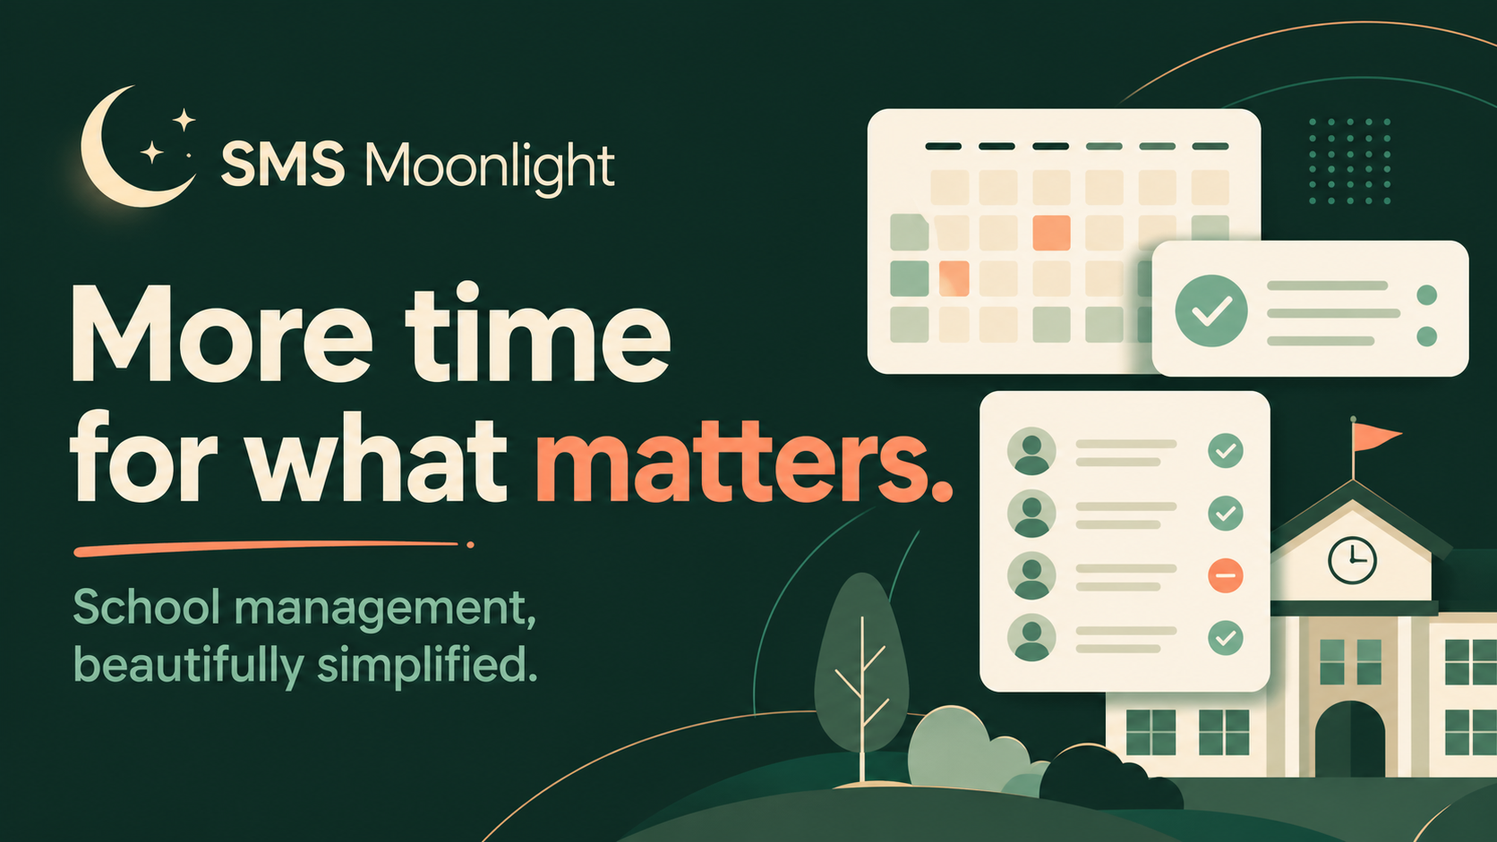
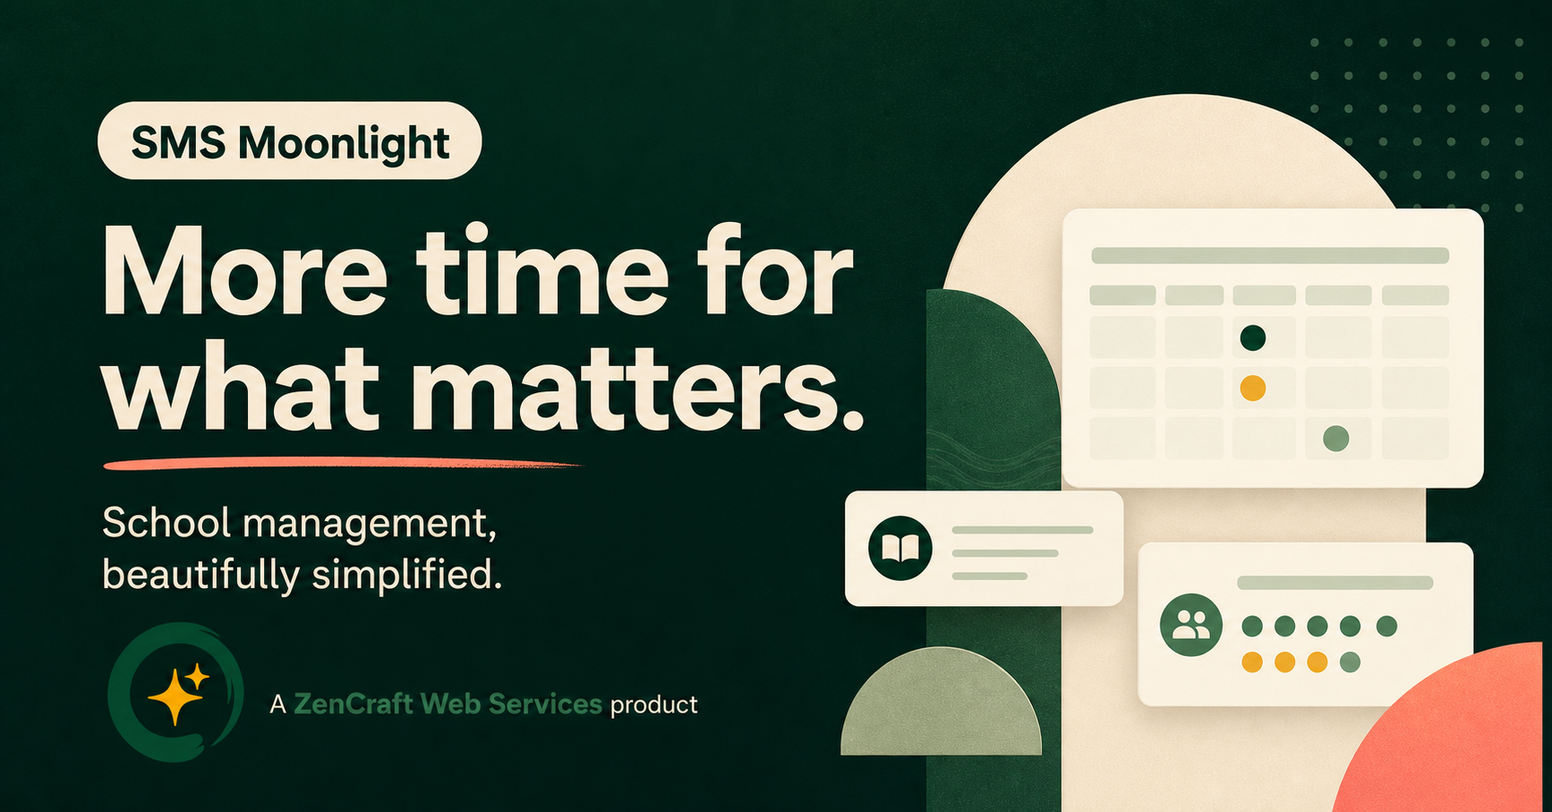
Integrate ZenCraft branding and Hostinger export

diff --git a/app/globals.css b/app/globals.css
@@ -1,6 +1,6 @@
 @import 'tailwindcss';
 
-:root{--ink:#102c2a;--green:#194f48;--deep:#0d3431;--cream:#f7f4ec;--paper:#fffdf8;--orange:#f28b55;--line:#dde1da;--muted:#667570}*{box-sizing:border-box}html{scroll-behavior:smooth}body{margin:0;background:var(--paper);color:var(--ink);font-family:var(--body),Arial,sans-serif}a{text-decoration:none;color:inherit}.shell{width:min(1180px,calc(100% - 48px));margin:auto}.nav{height:82px;display:flex;align-items:center;justify-content:space-between;position:relative;z-index:5}.brand{display:flex;align-items:center;gap:9px;font-family:var(--display);font-size:18px}.brand b{font-weight:800;margin-left:-5px}.moon{width:34px;height:34px;border-radius:50%;display:inline-block;background:var(--ink);box-shadow:inset -8px -3px 0 #f4be72;position:relative}.moon:before{content:"";position:absolute;width:17px;height:17px;border-radius:50%;background:var(--paper);top:3px;left:4px}.navlinks{display:flex;gap:36px;font-size:13px;color:#4f625e}.navlinks a:hover{color:var(--orange)}.btn{min-height:50px;padding:0 21px;border-radius:8px;display:inline-flex;align-items:center;justify-content:center;gap:18px;font-weight:800;font-size:13px;border:1px solid transparent;transition:.2s}.btn:hover{transform:translateY(-2px)}.btn.small{min-height:41px;padding:0 17px}.dark{background:var(--ink);color:white}.orange{background:var(--orange);color:#243b37;box-shadow:0 10px 25px #f28b5535}.white{background:white}.outline{border-color:#ffffff3d;color:white}.ghost{border-color:#ffffff55;color:white}.hero{min-height:670px;display:grid;grid-template-columns:.85fr 1.25fr;gap:30px;align-items:center;padding:25px 0 72px}.pill,.sectionHead>span,.estimator>div>span,.cta small{font-size:10px;letter-spacing:1.7px;font-weight:900;color:var(--green)}h1,h2,h3{font-family:var(--display);margin:0}h1{font-size:clamp(52px,5.4vw,77px);line-height:.97;letter-spacing:-4.5px;margin:25px 0 23px}h1 em,h2 em{font-style:normal;color:var(--orange)}.heroCopy>p{font-size:16px;line-height:1.75;color:var(--muted);max-width:485px}.actions{display:flex;align-items:center;gap:28px;margin-top:31px}.watch{display:flex;align-items:center;gap:9px;font-size:13px;font-weight:800}.watch i{font-style:normal;width:31px;height:31px;border:1px solid #cbd3ce;border-radius:50%;display:grid;place-items:center;color:var(--orange);font-size:8px}.proof{display:flex;align-items:center;gap:13px;margin-top:43px}.proof>div{display:flex}.proof>div span{width:32px;height:32px;border-radius:50%;display:grid;place-items:center;border:2px solid var(--paper);margin-left:-7px;background:#bcded2;font-size:8px;font-weight:900}.proof>div span:first-child{margin:0;background:#f4c5a9}.proof>div span:last-child{background:#bed7ea}.proof p{font-size:10px;line-height:1.5;color:var(--muted)}.proof b{color:var(--ink)}
+:root{--ink:#102c2a;--green:#194f48;--deep:#0d3431;--cream:#f7f4ec;--paper:#fffdf8;--orange:#f28b55;--gold:#fdbb21;--line:#dde1da;--muted:#667570}*{box-sizing:border-box}html{scroll-behavior:smooth}body{margin:0;background:var(--paper);color:var(--ink);font-family:var(--body),Arial,sans-serif}a{text-decoration:none;color:inherit}.shell{width:min(1180px,calc(100% - 48px));margin:auto}.nav{height:82px;display:flex;align-items:center;justify-content:space-between;position:relative;z-index:5}.brand{display:flex;align-items:center;gap:9px;font-family:var(--display);font-size:18px}.brand b{font-weight:800;margin-left:-5px}.productBrand{gap:11px}.brandSymbol{width:37px;height:37px;display:block;overflow:hidden;position:relative;flex:0 0 37px}.brandSymbol img{position:absolute;width:124px;height:62px;max-width:none;left:-1px;top:-12px;object-fit:contain}.productName{display:grid;grid-template-columns:auto auto;column-gap:5px;align-items:end;line-height:1}.productName b{margin:0}.productName small{grid-column:1/-1;font:800 7px/1 var(--body);letter-spacing:1.35px;text-transform:uppercase;color:#56706a;margin-top:5px}.moon{width:34px;height:34px;border-radius:50%;display:inline-block;background:var(--ink);box-shadow:inset -8px -3px 0 #f4be72;position:relative}.moon:before{content:"";position:absolute;width:17px;height:17px;border-radius:50%;background:var(--paper);top:3px;left:4px}.navlinks{display:flex;gap:36px;font-size:13px;color:#4f625e}.navlinks a:hover{color:var(--orange)}.btn{min-height:50px;padding:0 21px;border-radius:8px;display:inline-flex;align-items:center;justify-content:center;gap:18px;font-weight:800;font-size:13px;border:1px solid transparent;transition:.2s}.btn:hover{transform:translateY(-2px)}.btn.small{min-height:41px;padding:0 17px}.dark{background:var(--ink);color:white}.orange{background:var(--orange);color:#243b37;box-shadow:0 10px 25px #f28b5535}.white{background:white}.outline{border-color:#ffffff3d;color:white}.ghost{border-color:#ffffff55;color:white}.hero{min-height:670px;display:grid;grid-template-columns:.85fr 1.25fr;gap:30px;align-items:center;padding:25px 0 72px}.pill,.sectionHead>span,.estimator>div>span,.cta small{font-size:10px;letter-spacing:1.7px;font-weight:900;color:var(--green)}h1,h2,h3{font-family:var(--display);margin:0}h1{font-size:clamp(52px,5.4vw,77px);line-height:.97;letter-spacing:-4.5px;margin:25px 0 23px}h1 em,h2 em{font-style:normal;color:var(--orange)}.heroCopy>p{font-size:16px;line-height:1.75;color:var(--muted);max-width:485px}.actions{display:flex;align-items:center;gap:28px;margin-top:31px}.watch{display:flex;align-items:center;gap:9px;font-size:13px;font-weight:800}.watch i{font-style:normal;width:31px;height:31px;border:1px solid #cbd3ce;border-radius:50%;display:grid;place-items:center;color:var(--orange);font-size:8px}.proof{display:flex;align-items:center;gap:13px;margin-top:43px}.proof>div{display:flex}.proof>div span{width:32px;height:32px;border-radius:50%;display:grid;place-items:center;border:2px solid var(--paper);margin-left:-7px;background:#bcded2;font-size:8px;font-weight:900}.proof>div span:first-child{margin:0;background:#f4c5a9}.proof>div span:last-child{background:#bed7ea}.proof p{font-size:10px;line-height:1.5;color:var(--muted)}.proof b{color:var(--ink)}
 .preview{height:570px;position:relative;display:flex;align-items:center}.preview:before{content:"";position:absolute;width:575px;height:575px;border-radius:50%;background:#e2eee7;right:-75px}.ring{position:absolute;border:1px solid #194f4822;border-radius:50%}.ring.one{width:495px;height:495px;right:-28px}.ring.two{width:370px;height:370px;right:35px}.app{width:700px;background:white;border:1px solid #dce4df;border-radius:14px;overflow:hidden;box-shadow:0 35px 70px #0d343133;position:relative;z-index:1;transform:perspective(1200px) rotateY(-4deg)}.app header{height:50px;display:flex;align-items:center;border-bottom:1px solid #edf0ed;padding:0 15px;gap:20px}.brand.mini{font-size:9px;width:115px}.brand.mini .moon{width:20px;height:20px;box-shadow:inset -5px -2px 0 #f4be72}.brand.mini .moon:before{width:10px;height:10px;top:2px;left:2px}.search{flex:1;background:#f5f6f4;padding:8px 12px;border-radius:6px;font-size:7px;color:#99a39f}.user{width:25px;height:25px;display:grid;place-items:center;border-radius:50%;background:#ffdfca;font-size:7px;font-weight:900}.appBody{display:grid;grid-template-columns:125px 1fr;min-height:375px}.appBody aside{border-right:1px solid #edf0ed;padding:14px 10px;display:flex;flex-direction:column;gap:4px;position:relative}.appBody aside>b,.appBody aside>span{padding:9px;border-radius:5px;font-size:7px;color:#7e8b87}.appBody aside>b{background:#dff0e8;color:var(--green)}.appBody aside>div{position:absolute;bottom:12px;left:10px;right:10px;background:#eff6f1;border-radius:7px;padding:9px;display:flex;flex-direction:column;font-size:7px}.appBody aside small{font-size:6px;color:#84918d;margin:2px 0 7px}.appBody aside button,.hello button{border:0;background:var(--green);color:white;border-radius:4px;padding:6px;font-size:6px}.dash{padding:21px;background:#fbfcfa}.hello{display:flex;justify-content:space-between;align-items:end}.hello small{font-size:6px;color:#98a29f;letter-spacing:.6px}.hello h3{font-size:18px;margin:4px 0}.hello p{font-size:7px;color:#85918d;margin:0}.hello button{background:var(--orange);color:var(--ink);font-weight:800;padding:8px 10px}.stats{display:grid;grid-template-columns:repeat(3,1fr);gap:8px;margin:18px 0 11px}.stats>div{background:white;border:1px solid #e8ede9;border-radius:8px;padding:10px;display:flex;align-items:center;gap:8px}.stats i{width:28px;height:28px;border-radius:7px;display:grid;place-items:center;font-style:normal}.mint{background:#dff1e8;color:#26725f}.peach{background:#ffeadf;color:#cd7041}.blue{background:#e1edf6;color:#50799c}.stats span{display:flex;flex-direction:column}.stats small{font-size:6px;color:#8b9793}.stats strong{font:800 15px var(--display)}.stats em{font-size:5px;color:#4e947d;font-style:normal}.lower{display:grid;grid-template-columns:1.2fr 1fr;gap:9px}.chart,.activity{height:155px;background:white;border:1px solid #e8ede9;border-radius:8px;padding:12px;font-size:7px}.bars{height:98px;display:flex;align-items:end;gap:13px;padding:12px 13px 0;border-bottom:1px solid #edf0ed;background:repeating-linear-gradient(transparent 0,transparent 23px,#f0f2ef 24px)}.bars i{flex:1;background:#b9ded1;border-radius:3px 3px 0 0}.bars i:nth-child(4){background:var(--orange)}.chart>small{display:flex;justify-content:space-around;color:#98a29f;font-size:5px;padding-top:6px}.activity>p{display:flex;align-items:center;gap:8px;margin:11px 0}.activity p>i{width:21px;height:21px;border-radius:50%;background:#e0f0e8;display:grid;place-items:center;font-style:normal}.activity p>span{display:flex;flex-direction:column}.activity p small{font-size:5px;color:#939d9a}.float{position:absolute;z-index:2;background:white;border:1px solid #e1e8e3;box-shadow:0 15px 32px #0d343128;border-radius:9px;padding:10px 13px;display:flex;align-items:center;gap:8px;font-size:8px}.float>i{width:28px;height:28px;border-radius:50%;background:#dff0e7;color:#377b66;display:grid;place-items:center;font-style:normal;font-weight:900}.float span{display:flex;flex-direction:column}.float small{font-size:6px;color:#87928f}.float.setup{left:-22px;bottom:35px}.float.attend{right:-2px;top:62px}.float.attend>i{background:#ffeadf;color:#cb6c3d}
 .trust{background:var(--green);color:white}.trust>.shell{min-height:105px;display:flex;align-items:center;justify-content:space-between}.trust p{font:400 14px/1.4 var(--display);color:#b7d3ca}.trust p b{color:white}.trust>div>div{display:flex;gap:37px;font-size:11px}.trust>div>div span{white-space:nowrap}.section{padding:110px 0}.sectionHead h2{font-size:clamp(39px,4.2vw,60px);line-height:1.05;letter-spacing:-3px;margin-top:15px}.sectionHead p{color:var(--muted);font-size:14px;line-height:1.75}.split{display:grid;grid-template-columns:1.2fr .65fr;gap:80px;align-items:end;margin-bottom:55px}.benefits{display:grid;grid-template-columns:repeat(3,1fr);gap:21px}.benefits article{border:1px solid var(--line);border-radius:12px;background:#fffefa;padding:23px}.benefits article>small{color:#8b9692;font-size:10px}.benefits h3{font-size:18px;margin-bottom:10px}.benefits p{color:var(--muted);font-size:12px;line-height:1.7}.art{height:185px;position:relative;overflow:hidden}.art:before{content:"";position:absolute;width:150px;height:150px;border-radius:50%;background:#e2f0e9;left:50%;top:18px;transform:translateX(-50%)}.art i,.art b,.art span{position:absolute;display:block}.a01 i{width:125px;height:80px;background:white;border-radius:8px;box-shadow:0 12px 25px #0d343120;left:25%;top:58px;transform:rotate(-5deg)}.a01 b{width:50px;height:50px;background:var(--orange);border-radius:50%;right:20%;top:35px}.a01 span{width:23px;height:23px;background:var(--green);border-radius:50%;left:20%;bottom:30px}.a02 i{width:165px;height:105px;border:8px solid #345e59;border-bottom-width:13px;background:white;border-radius:7px;left:50%;top:40px;transform:translateX(-50%);box-shadow:0 13px 25px #0d343125}.a02 i:before{content:"✓";position:absolute;width:38px;height:38px;border-radius:50%;background:#d8eee5;color:var(--green);display:grid;place-items:center;left:55px;top:22px}.a03 i{width:135px;height:74px;background:white;border-radius:8px;box-shadow:0 13px 28px #0d343122;left:50%;top:58px;transform:translateX(-50%)}.a03 i:before{content:"₱";position:absolute;width:38px;height:38px;border-radius:50%;background:var(--orange);display:grid;place-items:center;left:14px;top:18px;font-weight:900}.a03 b{width:25px;height:25px;border-radius:50%;background:var(--green);left:20%;top:42px}.a03 span{width:31px;height:31px;border-radius:50%;background:#f2b28f;right:21%;bottom:30px}
 .pricing{background:var(--deep);color:white;padding:110px 0}.center{text-align:center;max-width:720px;margin:0 auto 52px}.center>span,.pricing .estimator>div>span{color:#8fc2b4}.center p{max-width:580px;margin:17px auto 0;color:#aabcb7}.plans{display:grid;grid-template-columns:repeat(4,1fr);gap:13px}.plans article{border:1px solid #ffffff25;border-radius:12px;padding:26px 22px 22px;display:flex;flex-direction:column;min-height:400px;position:relative}.plans article.featured{background:#fffefa;color:var(--ink);border-color:white;transform:translateY(-9px);box-shadow:0 20px 45px #0004}.popular{position:absolute;top:-11px;left:50%;transform:translateX(-50%);background:var(--orange);color:var(--ink);font-size:8px;letter-spacing:1px;font-weight:900;padding:6px 11px;border-radius:20px;white-space:nowrap}.plans article>h3{font-size:18px}.plans article>p{color:#9cafaa;font-size:10px;min-height:34px}.plans article>strong{font:800 33px var(--display);letter-spacing:-1.4px}.plans article>small{font-size:9px;color:#8da09b}.plans hr{border:0;border-top:1px solid #ffffff20;width:100%;margin:21px 0}.plans .featured hr{border-color:#dfe3dd}.plans ul{list-style:none;padding:0;margin:0 0 24px;flex:1}.plans li{font-size:10px;color:#bfd0cb;margin-bottom:12px;display:flex;gap:8px}.plans .featured li{color:#566a65}.plans li i{font-style:normal;color:var(--orange)}.enterprise{border:1px solid #ffffff25;border-radius:12px;margin-top:19px;padding:25px 29px;display:flex;align-items:center;justify-content:space-between;background:#ffffff08}.enterprise>div>span{font-size:8px;letter-spacing:1.5px;color:#95bdb2;font-weight:900}.enterprise h3{font-size:20px;margin:6px 0}.enterprise p{font-size:10px;color:#9fb1ad;margin:0}.estimator{margin-top:72px;background:var(--cream);color:var(--ink);border-radius:15px;padding:42px;display:grid;grid-template-columns:.8fr 1.2fr;gap:65px;align-items:center}.estimator h3{font-size:30px;line-height:1.15;letter-spacing:-1.3px;margin:11px 0}.estimator>div>p{font-size:11px;color:var(--muted);line-height:1.7}.tool{background:white;border:1px solid #dfe3dd;border-radius:11px;padding:24px}.tool label{display:flex;justify-content:space-between;font-size:11px;font-weight:800}.tool output{font:800 23px var(--display);color:var(--green)}.tool input{appearance:none;width:100%;height:5px;border-radius:4px;margin:23px 0 7px;background:linear-gradient(to right,var(--orange) 0 var(--progress),#dde2de var(--progress) 100%)}.tool input::-webkit-slider-thumb{appearance:none;width:19px;height:19px;border-radius:50%;background:var(--orange);border:4px solid white;box-shadow:0 2px 8px #0004}.labels{display:flex;justify-content:space-between;color:#8e9995;font-size:7px}.result{background:#eaf2ed;border-radius:8px;padding:15px;margin-top:20px;display:flex;justify-content:space-between;align-items:center;gap:18px}.result>span{display:flex;flex-direction:column}.result small{font-size:7px;letter-spacing:1px;color:#71837d}.result b{font:800 25px var(--display)}.result p{font-size:8px;color:#63756f;max-width:170px}
@@ -9,3 +9,12 @@
 @media(max-width:720px){.shell{width:calc(100% - 30px)}.nav{height:70px}.navlinks{display:none}.btn.small{font-size:10px;padding:0 12px}.hero{padding:40px 0 58px}.heroCopy>p{font-size:14px}.preview{height:390px;margin-top:20px}.preview:before{width:390px;height:390px;right:-90px}.app{width:700px;transform:scale(.72);transform-origin:left center}.float{transform:scale(.8)}.float.setup{left:-5px;bottom:-5px}.float.attend{right:-7px;top:20px}.trust>.shell{display:block;text-align:center;padding:22px 0}.trust>div>div{display:grid;grid-template-columns:1fr 1fr;margin-top:17px;font-size:9px}.section,.pricing{padding:80px 0}.split{grid-template-columns:1fr;gap:18px;margin-bottom:36px}.benefits,.plans,.steps{grid-template-columns:1fr}.benefits article{padding-bottom:27px}.art{max-width:330px;margin:auto}.enterprise{align-items:flex-start;flex-direction:column;gap:22px}.estimator{padding:24px;grid-template-columns:1fr;gap:18px;margin-top:48px}.result{align-items:flex-start;flex-direction:column}.steps{gap:35px}.steps:before{display:none}.cta>.shell>div{flex-direction:column;max-width:250px;margin:24px auto 0}footer>.shell{grid-template-columns:1fr;text-align:center;justify-items:center}footer p{margin:0}}
 @media(max-width:420px){.brand{font-size:14px}.moon{width:30px;height:30px}.hero h1{letter-spacing:-3px}.pill{font-size:8px}.actions{flex-direction:column;gap:18px}.preview{height:335px}.app{transform:scale(.61)}.nav .btn span{display:none}}
 @media(prefers-reduced-motion:reduce){html{scroll-behavior:auto}*{transition:none!important}}
+
+/* ZenCraft brand integration */
+.pill{border:1px solid #d8e2d7;background:linear-gradient(90deg,#ffffffd9,#f3f8f1b8);border-radius:999px;padding:9px 13px;display:inline-flex;align-items:center;color:#275e51;box-shadow:0 6px 24px #194f480d}
+.orange{background:linear-gradient(135deg,var(--gold),#f29a45);box-shadow:0 10px 25px #f2a43f38}
+.orange:hover{box-shadow:0 14px 30px #f2a43f52}
+.proof.brandProof{gap:12px}.proofMark{width:37px;height:37px;overflow:hidden;position:relative;display:block;flex:0 0 37px;border-radius:50%;background:#f4f8f2;box-shadow:0 0 0 1px #d4e2d8}.proofMark img{position:absolute;width:124px;height:62px;max-width:none;left:-1px;top:-12px}.brand.mini .brandSymbol{width:20px;height:20px;flex-basis:20px}.brand.mini .brandSymbol img{width:68px;height:34px;top:-7px}
+.popular{background:linear-gradient(135deg,var(--gold),#f49b45)}
+.ctaLogo{display:block;width:62px;height:62px;border-radius:50%;overflow:hidden;position:relative;margin:0 auto 17px;background:#f7f2dd;box-shadow:0 0 0 1px #ffffff36,0 14px 34px #001c172b}.ctaLogo img{position:absolute;width:207px;height:104px;max-width:none;left:-2px;top:-21px}.cta small{color:#c3d8d1}.footerBrand{display:flex;flex-direction:column;align-items:flex-start;gap:2px}.footerBrand img{width:148px;height:74px;object-fit:contain;object-position:center;margin:-17px 0 -12px}.footerBrand span{font-size:7px;text-transform:uppercase;letter-spacing:1.2px;color:#7f9992;padding-left:10px}
+@media(max-width:720px){.footerBrand{align-items:center}.productName small{letter-spacing:1px}.pill{font-size:8px}}

diff --git a/app/page.tsx b/app/page.tsx
@@ -32,24 +32,27 @@ export default function Home() {
   return (
     <main>
       <nav className="nav shell" aria-label="Main navigation">
-        <a className="brand" href="#top"><span className="moon" aria-hidden="true" />SMS <b>Moonlight</b></a>
+        <a className="brand productBrand" href="#top">
+          <span className="brandSymbol" aria-hidden="true"><img src="/zencraft-logo.png" alt="" /></span>
+          <span className="productName">SMS <b>Moonlight</b><small>by ZenCraft</small></span>
+        </a>
         <div className="navlinks"><a href="#features">Why Moonlight</a><a href="#pricing">Pricing</a><a href="#setup">How it works</a></div>
         <a className="btn dark small" href="#contact">Book a demo <span>↗</span></a>
       </nav>
 
       <section className="hero shell" id="top">
         <div className="heroCopy">
-          <span className="pill">✦ SCHOOL MANAGEMENT, BEAUTIFULLY SIMPLIFIED</span>
+          <span className="pill">✦ A ZENCRAFT WEB SERVICES PRODUCT</span>
           <h1>More time for<br /><em>what matters.</em></h1>
           <p>SMS Moonlight brings your students, staff, and school operations together—so your team can spend less time managing systems and more time shaping futures.</p>
           <div className="actions"><a className="btn orange" href="#pricing">Explore plans <span>→</span></a><a className="watch" href="#setup"><i>▶</i> See how it works</a></div>
-          <div className="proof"><div><span>JM</span><span>AL</span><span>RS</span></div><p><b>Built with schools, for schools.</b><br />Simple from day one.</p></div>
+          <div className="proof brandProof"><span className="proofMark" aria-hidden="true"><img src="/zencraft-logo.png" alt="" /></span><p><b>Designed and supported by ZenCraft.</b><br />A reliable local partner from day one.</p></div>
         </div>
 
         <div className="preview">
           <div className="ring one" /><div className="ring two" />
           <div className="app">
-            <header><a className="brand mini"><span className="moon" />Moonlight</a><div className="search">⌕ &nbsp; Search anything...</div><span className="user">MS</span></header>
+            <header><a className="brand mini"><span className="brandSymbol"><img src="/zencraft-logo.png" alt="" /></span>Moonlight</a><div className="search">⌕ &nbsp; Search anything...</div><span className="user">MS</span></header>
             <div className="appBody">
               <aside><b>⌂ &nbsp; Overview</b><span>♙ &nbsp; Students</span><span>◇ &nbsp; Staff</span><span>▦ &nbsp; Classes</span><span>◷ &nbsp; Attendance</span><div><strong>Need help?</strong><small>We’re here for you.</small><button>Contact us</button></div></aside>
               <section className="dash">
@@ -80,8 +83,8 @@ export default function Home() {
 
       <section className="section shell setupSteps" id="setup"><div className="sectionHead center"><span>FROM SIGN-UP TO SCHOOL-READY</span><h2>Up and running in <em>three steps.</em></h2></div><div className="steps"><article><b>1</b><small>CREATE</small><h3>Tell us about your school</h3><p>Choose your plan and add the basics. Your secure workspace is created automatically.</p></article><article><b>2</b><small>SET UP</small><h3>Bring your school records</h3><p>Use guided imports for students and staff, then configure your school year and classes.</p></article><article><b>3</b><small>GO LIVE</small><h3>Invite your team</h3><p>Review your setup, invite administrators and staff, and begin your Moonlight journey.</p></article></div><div className="help">✦ <p><b>Prefer a helping hand?</b> Assisted migration, configuration, and launch support are available through a one-time implementation package.</p></div></section>
 
-      <section className="cta" id="contact"><div className="ctaRing r1" /><div className="ctaRing r2" /><div className="shell"><span className="bigMoon"><i /></span><small>YOUR SCHOOL, IN A BETTER RHYTHM</small><h2>Ready to make school<br />management feel <em>lighter?</em></h2><p>See how SMS Moonlight can fit your school today—and grow with you tomorrow.</p><div><a className="btn orange" href="mailto:hello@smsmoonlight.com?subject=SMS%20Moonlight%20Demo">Book your free demo →</a><a className="btn ghost" href="#pricing">View pricing</a></div></div></section>
-      <footer><div className="shell"><a className="brand" href="#top"><span className="moon" />SMS <b>Moonlight</b></a><p>School management, beautifully simplified.</p><nav><a href="#features">Features</a><a href="#pricing">Pricing</a><a href="mailto:hello@smsmoonlight.com">Contact</a></nav><small>© 2026 SMS Moonlight.</small></div></footer>
+      <section className="cta" id="contact"><div className="ctaRing r1" /><div className="ctaRing r2" /><div className="shell"><span className="ctaLogo" aria-hidden="true"><img src="/zencraft-logo.png" alt="" /></span><small>YOUR SCHOOL, IN A BETTER RHYTHM</small><h2>Ready to make school<br />management feel <em>lighter?</em></h2><p>See how SMS Moonlight can fit your school today—and grow with you tomorrow.</p><div><a className="btn orange" href="mailto:hello@smsmoonlight.com?subject=SMS%20Moonlight%20Demo">Book your free demo →</a><a className="btn ghost" href="#pricing">View pricing</a></div></div></section>
+      <footer><div className="shell"><div className="footerBrand"><img src="/zencraft-logo.png" alt="ZenCraft Web Services" /><span>Creator of SMS Moonlight</span></div><p>School management, beautifully simplified.</p><nav><a href="#features">Features</a><a href="#pricing">Pricing</a><a href="mailto:hello@smsmoonlight.com">Contact</a></nav><small>© 2026 ZenCraft Web Services.</small></div></footer>
     </main>
   );
 }

diff --git a/app/layout.tsx b/app/layout.tsx
@@ -8,9 +8,10 @@ const display = Manrope({ variable: '--display', subsets: ['latin'] });
 export const metadata: Metadata = {
   metadataBase: new URL('https://smsmoonlight.com'),
   title: 'SMS Moonlight | School Management, Beautifully Simplified',
-  description: 'Modern school management with guided setup and fair, transparent pricing that grows with your school.',
-  openGraph: { title: 'SMS Moonlight | More time for what matters', description: 'Modern school management with simple setup and transparent pricing.', type: 'website', images: [{ url: '/og.png', width: 1672, height: 909, alt: 'SMS Moonlight — More time for what matters.' }] },
-  twitter: { card: 'summary_large_image', title: 'SMS Moonlight | More time for what matters', description: 'Modern school management with simple setup and transparent pricing.', images: ['/og.png'] },
+  description: 'SMS Moonlight by ZenCraft Web Services—modern school management with guided setup and fair, transparent pricing.',
+  icons: { icon: '/zencraft-logo.png' },
+  openGraph: { title: 'SMS Moonlight by ZenCraft | More time for what matters', description: 'Modern school management with simple setup and transparent pricing.', type: 'website', images: [{ url: '/og.png', width: 1672, height: 909, alt: 'SMS Moonlight by ZenCraft — More time for what matters.' }] },
+  twitter: { card: 'summary_large_image', title: 'SMS Moonlight by ZenCraft | More time for what matters', description: 'Modern school management with simple setup and transparent pricing.', images: ['/og.png'] },
 };
 
 export default function RootLayout({ children }: Readonly<{children: React.ReactNode}>) {

diff --git a/next.config.ts b/next.config.ts
@@ -1,5 +1,8 @@
 import type { NextConfig } from 'next';
 
-const nextConfig: NextConfig = {};
+const nextConfig: NextConfig = {
+  output: 'export',
+  trailingSlash: true,
+};
 
 export default nextConfig;
